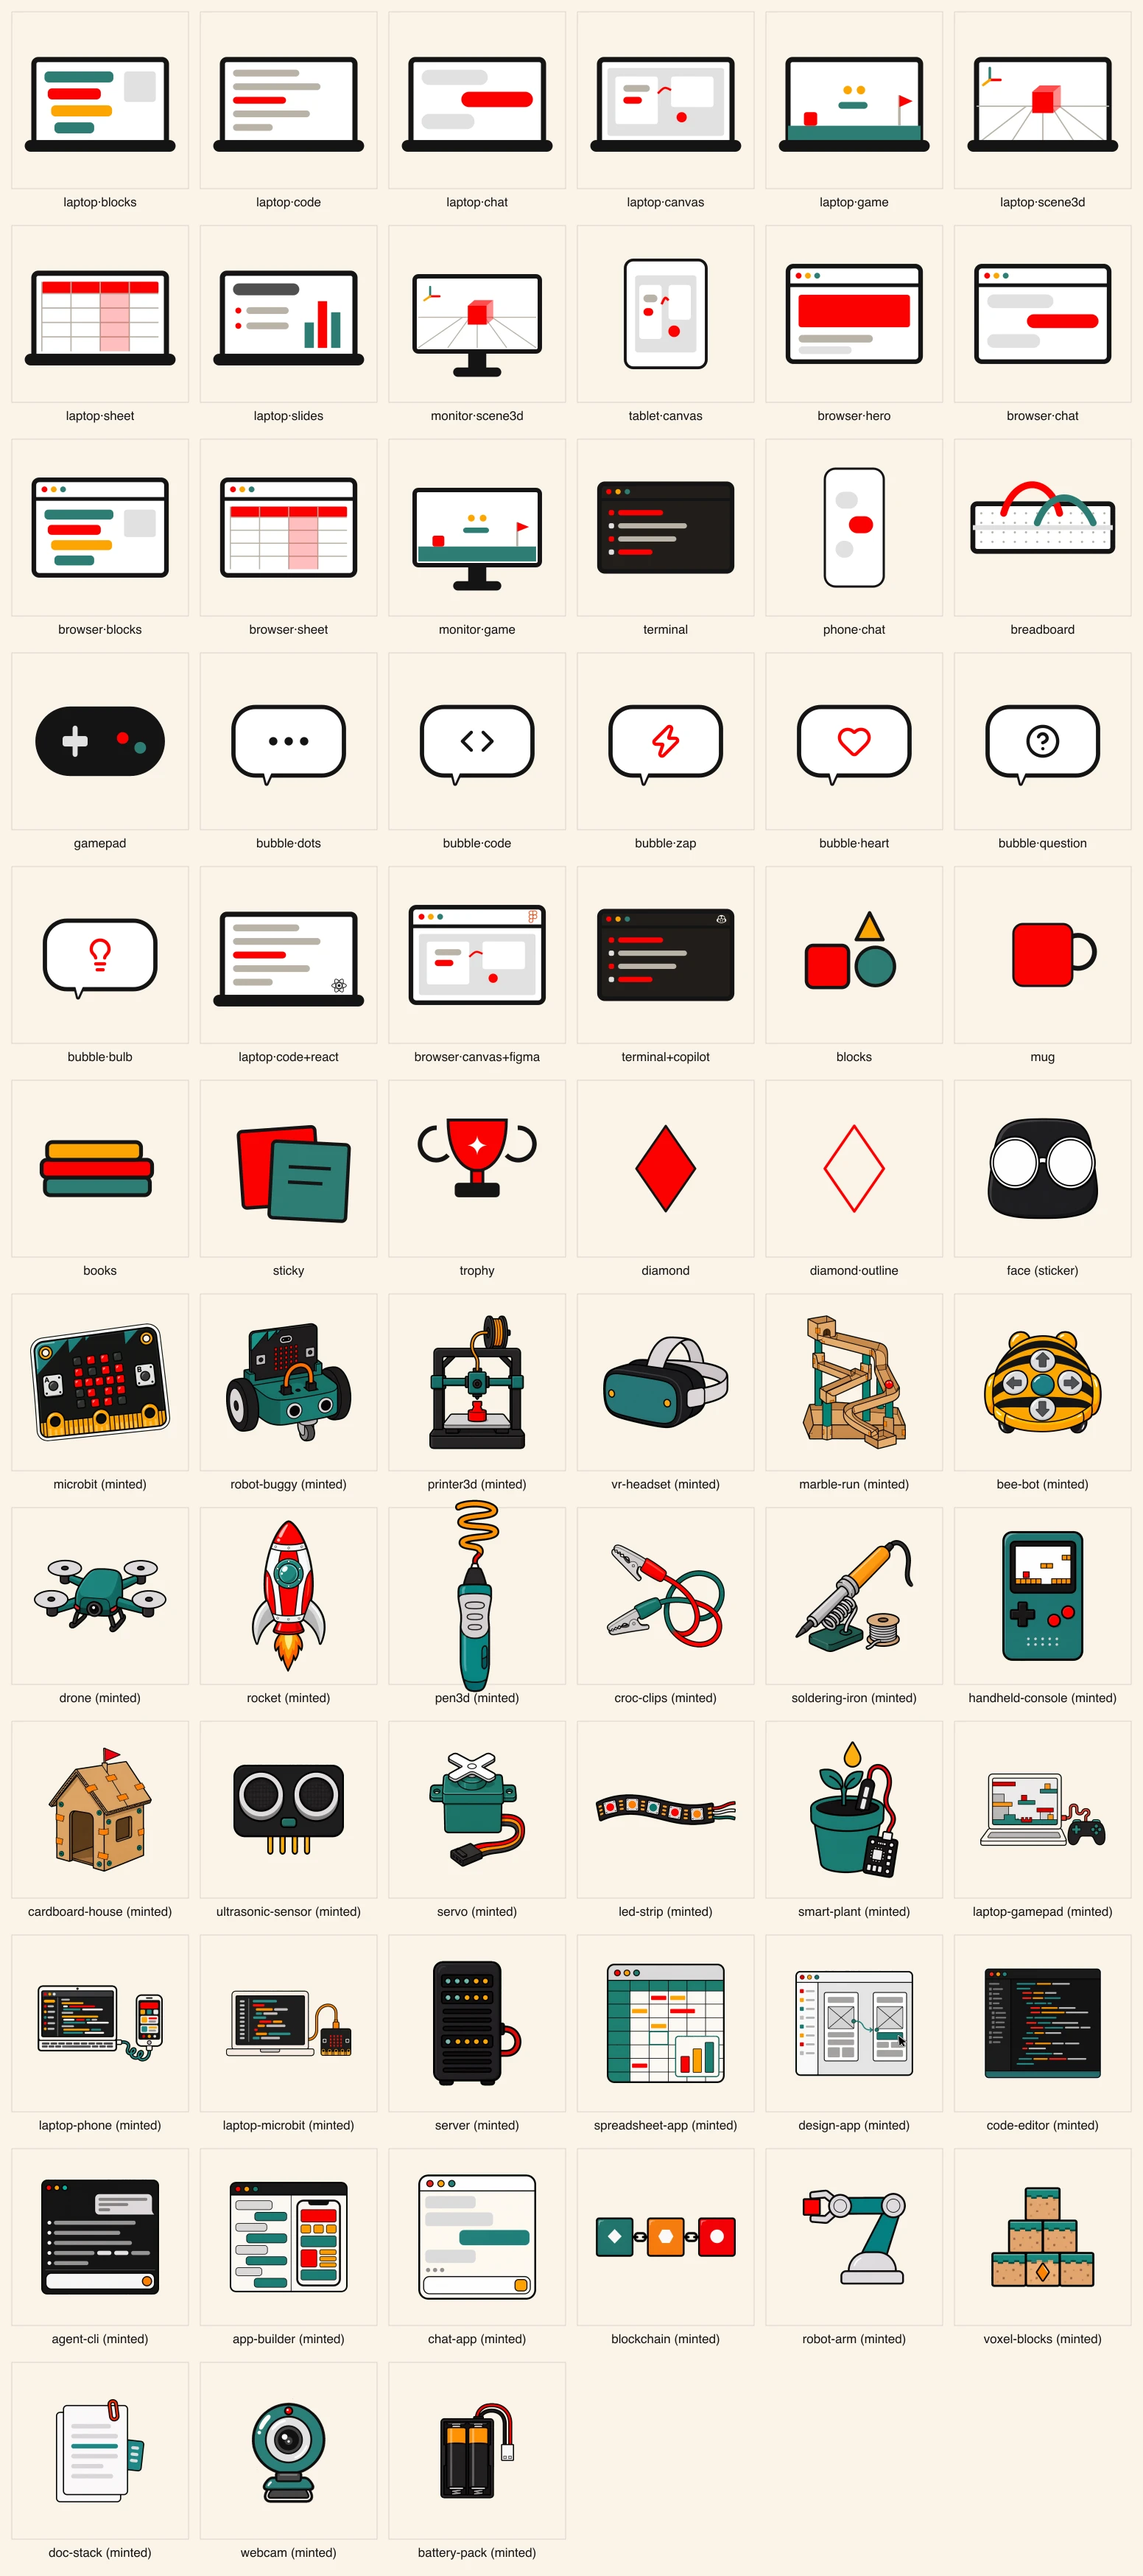
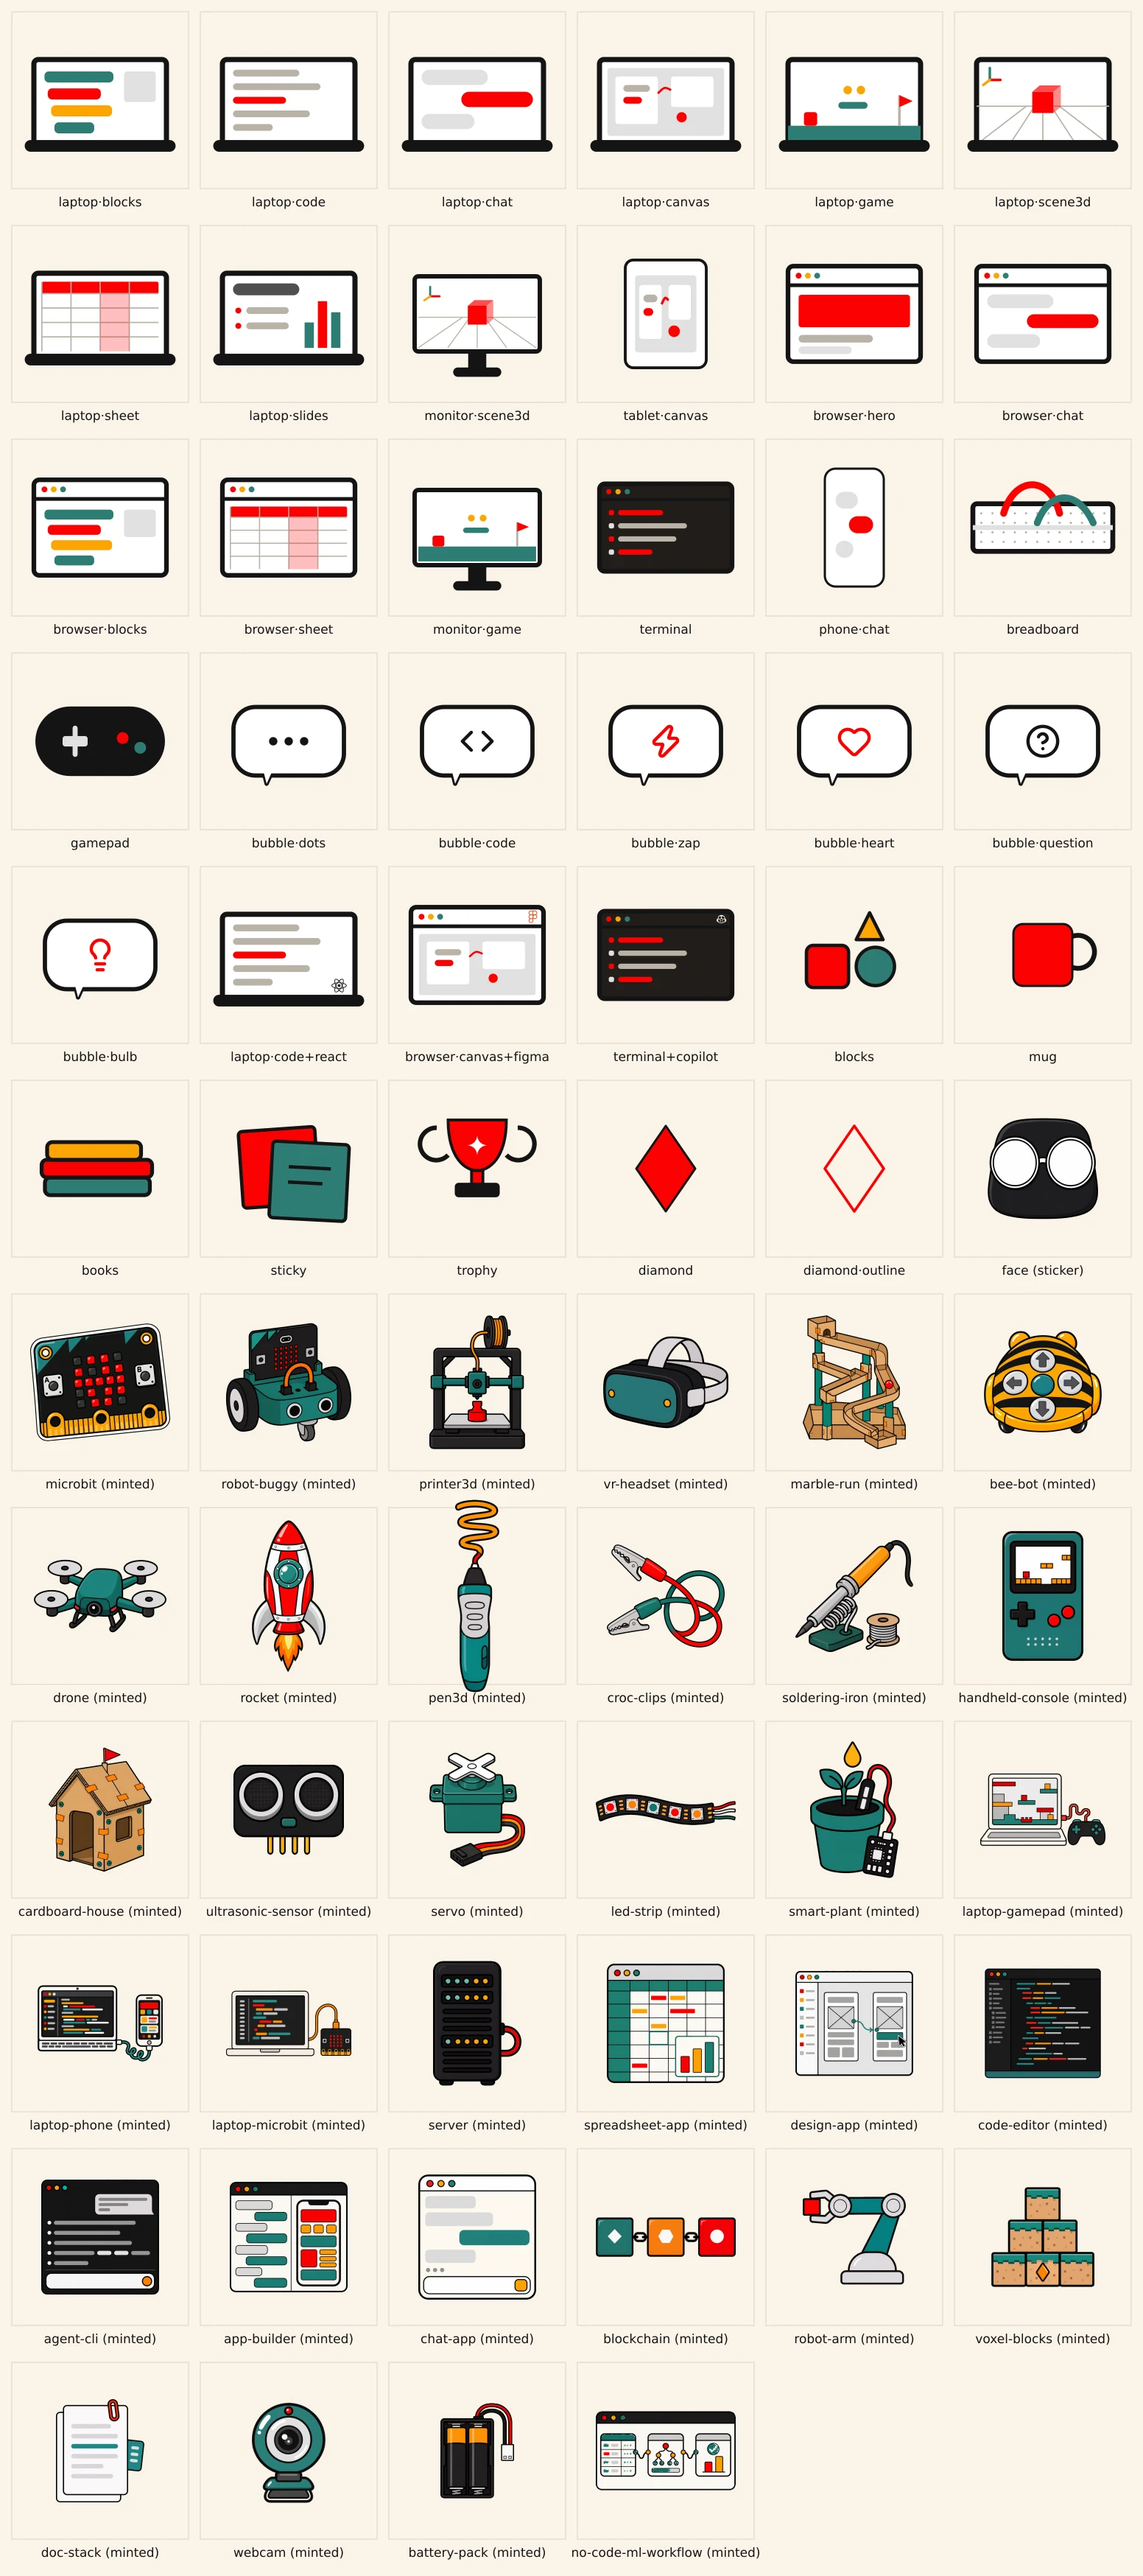
Refresh programme titles and no-code ML artwork
Amp-Thread-ID: https://ampcode.com/threads/T-01a059ff-a2a6-76e9-9647-bb4082595bfa

Changed region(s): [[0.5258, 0.9354, 0.6495, 0.9665]]

diff --git a/src/lib/programmes.ts b/src/lib/programmes.ts
@@ -211,7 +211,10 @@ function resolveProgramme(entry: ProgrammeEntry): ResolvedProgramme {
 
 function loadProgrammes() {
 	return getCollection('programmes').then((entries) =>
-		entries.map((entry) => resolveProgramme(entry)).sort(sortProgrammes),
+		entries
+			.filter((entry) => !entry.data.archived)
+			.map((entry) => resolveProgramme(entry))
+			.sort(sortProgrammes),
 	);
 }
 

diff --git a/src/content.config.ts b/src/content.config.ts
@@ -26,6 +26,7 @@ const programmes = defineCollection({
 		courseType: z.enum(['public']).optional(),
 		cardBlurb: z.string().min(1),
 		weight: z.number().int(),
+		archived: z.boolean().optional(),
 		homeFeaturedRank: z.number().int().positive().optional(),
 		signUpLabel: z.string().min(1).optional(),
 		signUpUrl: z.string().min(1).optional(),

diff --git a/reference/stickers/props/README.md b/reference/stickers/props/README.md
@@ -42,10 +42,11 @@ new files.
 | `doc-stack` | Source documents with citation card (knowledge-powered AI / RAG) |
 | `webcam` | Classroom webcam (no-code ML classification) |
 | `battery-pack` | micro:bit AA battery holder with connector (physical computing) |
+| `no-code-ml-workflow` | Connected dataset, model-training, and prediction nodes (no-code ML) |
 
 Round-2 subjects were derived from the TT Curriculum drive (Bee-Bot, Tello
 drones, Space Camp, 3D Pen Art, High Tech Maker, Makedo, MakeCode Arcade).
-Round-6 filled programme-coverage gaps (blockchain, RPA, Minecraft, RAG, no-code ML, battery pack) and re-minted code-editor (stray window dots) and agent-cli (now: user bubble, bullet response with inline chips, bottom prompt box per YJ's reference). Round-5 added professional app-window stickers — deliberately unbranded (no fake logos/text) so scenes can pair them with real simple-icons logo badges. Round-4 added connected software setups (laptop+device composites, server). Round-3 subjects came from gethacking.com stock (ElecFreaks smart kits, Tinker Kit). Shortlist for the next round: battery-pack, robot arm (RPA),
+Round-7 replaced the ambiguous webcam/data pairing for no-code ML with a coherent dataset → model training → prediction workflow. Round-6 filled programme-coverage gaps (blockchain, RPA, Minecraft, RAG, no-code ML, battery pack) and re-minted code-editor (stray window dots) and agent-cli (now: user bubble, bullet response with inline chips, bottom prompt box per YJ's reference). Round-5 added professional app-window stickers — deliberately unbranded (no fake logos/text) so scenes can pair them with real simple-icons logo badges. Round-4 added connected software setups (laptop+device composites, server). Round-3 subjects came from gethacking.com stock (ElecFreaks smart kits, Tinker Kit). Shortlist for the next round: battery-pack, robot arm (RPA),
 KTANE-style defusal box (Digital Making), blockchain cubes, sensor modules.
 Process a new batch with `python3 scripts/banner/process-mint.py <dir> <names>`.
 

diff --git a/src/content/programmes/microsoft-copilot.md b/src/content/programmes/microsoft-copilot.md
@@ -1,5 +1,5 @@
 ---
-title: "Microsoft Copilot"
+title: "AI and Productivity with Microsoft Copilot"
 subtitle: "An introductory course on leveraging Microsoft Copilot to enhance productivity."
 duration: "2 days"
 heroImage: "/images/banners/microsoft-copilot.webp"
@@ -10,7 +10,7 @@ cardBlurb: "Microsoft Copilot is an advanced AI assistant integrated into Singap
 weight: 0
 signUpLabel: "Enquire now"
 signUpUrl: "https://form.jotform.com/232050520776450"
-seoTitle: "Microsoft Copilot - Tinkercademy: Coding and Making for Schools and Professionals"
+seoTitle: "AI and Productivity with Microsoft Copilot - Tinkercademy: Coding and Making for Schools and Professionals"
 ---
 
 ## Course Overview

diff --git a/src/content/programmes/imda-apple-2025-c.md b/src/content/programmes/imda-apple-2025-c.md
@@ -1,5 +1,5 @@
 ---
-title: "Swift Playground"
+title: "App Development on iPad with Swift Playground"
 subtitle: "An IMDA Infocom LEARN Roadmap course with Apple Singapore."
 duration: "26 hours"
 heroImage: "/images/banners/imda-apple-2025-c.webp"
@@ -10,7 +10,7 @@ cardBlurb: "Build real iOS apps in Swift Playgrounds. Start with Swift and Swift
 weight: 65
 signUpLabel: "Enquire now"
 signUpUrl: "mailto:yjsoon@tk.sg?subject=Infocomm+LEARN+Roadmap"
-seoTitle: "Swift Playground - Tinkercademy: Coding and Making for Schools and Professionals"
+seoTitle: "App Development on iPad with Swift Playground - Tinkercademy: Coding and Making for Schools and Professionals"
 ---
 
 ## Course Overview

diff --git a/src/content/programmes/vibe-coding-for-digital-builders-lovable-replit.md b/src/content/programmes/vibe-coding-for-digital-builders-lovable-replit.md
@@ -8,7 +8,7 @@ domainIds: ["ai-engineering"]
 platformIds: ["html-css", "javascript", "chatgpt", "figma"]
 cardBlurb: "Stop writing code line-by-line. This intensive 2-day course is designed for those ready to move beyond \"AI demos\" and into the era of agentic coding. We leverage the symbiotic…"
 weight: 99
-draft: true
+archived: true
 signUpLabel: "Enquire now"
 signUpUrl: "https://form.jotform.com/232050520776450"
 seoTitle: "Level Up Your Vibe Coding (Lovable and Replit) - Tinkercademy: Coding and Making for Schools and Professionals"

diff --git a/src/content/programmes/no-code-web-design-framer.md b/src/content/programmes/no-code-web-design-framer.md
@@ -8,6 +8,7 @@ domainIds: ["uiux"]
 platformIds: ["framer"]
 cardBlurb: "In today's digital age, a strong online presence is essential for organisations of all sizes. A well-designed website can captivate your audience, enhance user experience, and…"
 weight: 0
+archived: true
 signUpLabel: "Enquire now"
 signUpUrl: "https://form.jotform.com/232050520776450"
 seoTitle: "No-code Web Design (Framer) - Tinkercademy: Coding and Making for Schools and Professionals"

diff --git a/docs/banner-system.md b/docs/banner-system.md
@@ -309,7 +309,7 @@ The full mint workflow, learned across rounds 1–6:
 Sticker props accept `"ground": true` to sit their bottom edge on the scene
 baseline (preferred over hand-computing `y` from the image aspect).
 
-The 33-prop library gives every current programme an identifying object; see
+The 34-prop library gives every current programme an identifying object; see
 the README table for the prop → course mapping.
 
 ## Handoff state (28 Aug 2026)
